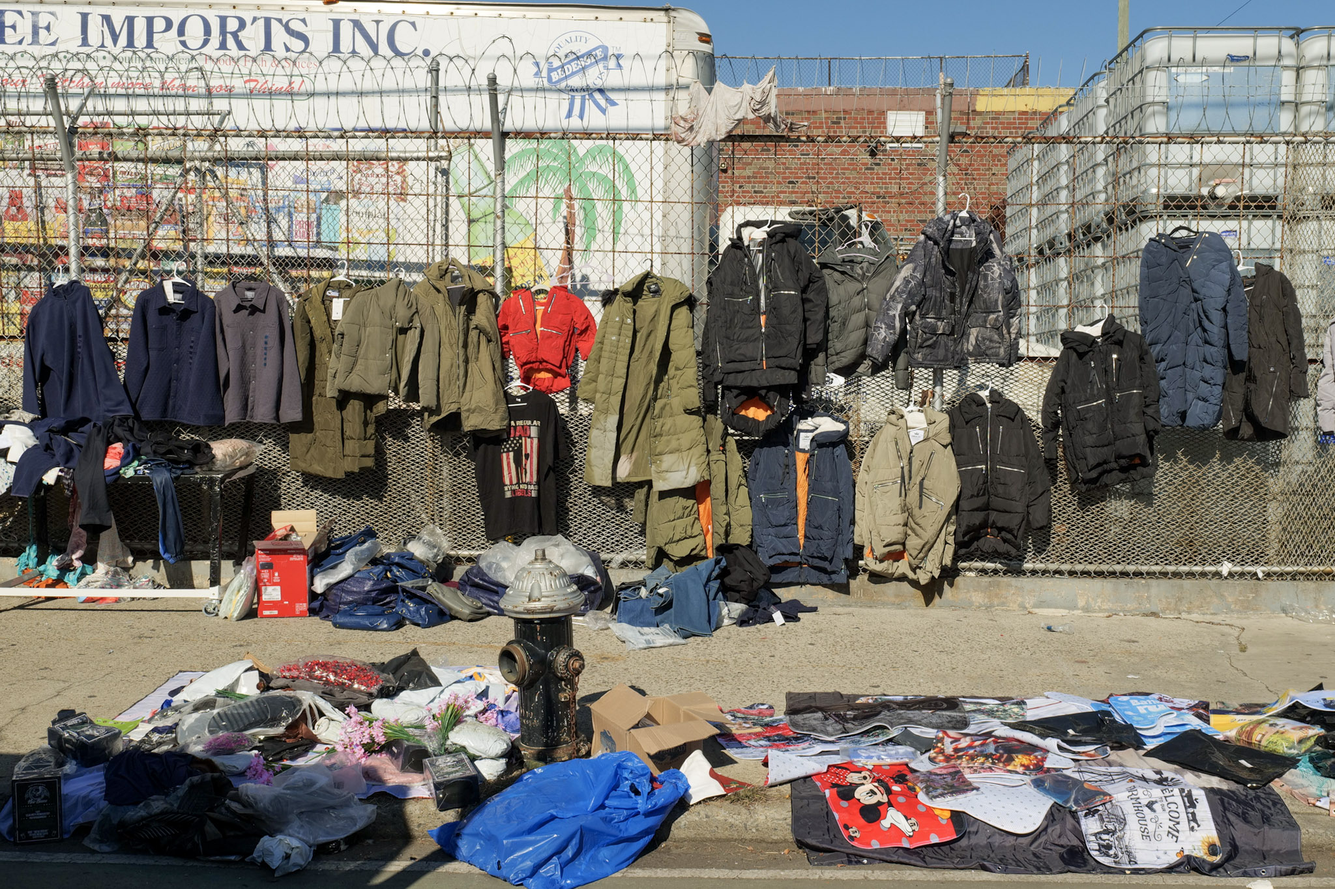
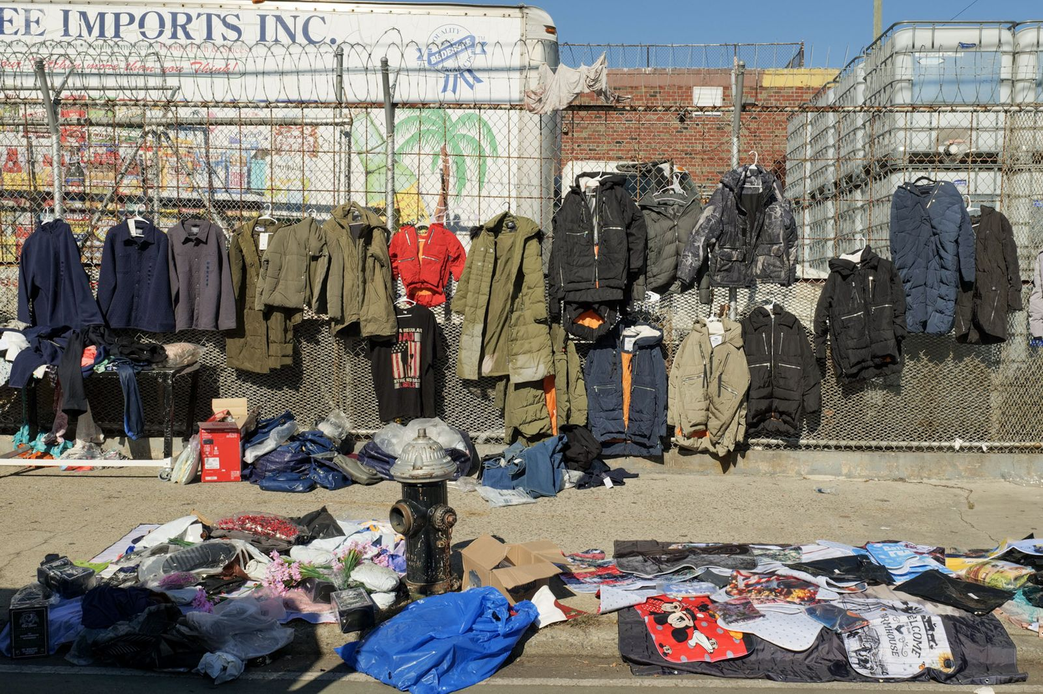
Resize homepage and vendor photos; add January 2027 Regents schedule (#76)

Changed region(s): [[0.375, 0.3096, 0.4062, 0.3405]]

diff --git a/regents/index.html b/regents/index.html
@@ -10,8 +10,8 @@
   <link rel="manifest" href="/site.webmanifest">
   <meta name="theme-color" content="#0F1319">
   <meta name="viewport" content="width=device-width, initial-scale=1.0" />
-  <title>June 2026 Regents Schedule, Rating Days and School Closures | East New York Times</title>
-  <meta name="description" content="Exam dates, school closures, and rating days for District 19 students and families in East New York, Brooklyn." />
+  <title>January 2027 Regents Schedule: Exam Dates for East New York Families | East New York Times</title>
+  <meta name="description" content="January 2027 Regents exams run Jan. 26 to 29. Exam dates, times and planning tips for District 19 students and families in East New York, Brooklyn." />
   <link href="https://api.fontshare.com/v2/css?f[]=clash-display@400,500,600,700&f[]=satoshi@300,400,500,700&display=swap" rel="stylesheet" />
   <style>
     :root{--bg:#0d1117;--surface:#161b22;--surface-2:#1c2128;--border:#2d333b;--divider:#21262d;--text:#e6edf3;--text-muted:#8b949e;--text-faint:#484f58;--accent:#e8952a;--accent-dim:rgba(232,149,42,0.12);--font-display:'Clash Display','Georgia',serif;--font-body:'Satoshi','Inter',sans-serif;--radius:6px;--radius-lg:12px;--max-w:720px;}
@@ -73,12 +73,12 @@
   <meta property="og:type" content="article" />
   <meta property="og:site_name" content="East New York Times" />
   <meta property="og:title" content="June Regents Are Coming — Here&#x27;s What East New York Families Need to Know" />
-  <meta property="og:description" content="Exam dates, school closures, and rating days for District 19 students and families in East New York, Brooklyn." />
+  <meta property="og:description" content="January 2027 Regents exams run Jan. 26 to 29. Exam dates, times and planning tips for District 19 students and families in East New York, Brooklyn." />
   <meta property="og:url" content="https://eastnewyorktimes.com/regents/" />
   <meta property="og:image" content="https://eastnewyorktimes.com/regents-story.jpg" />
   <meta name="twitter:card" content="summary_large_image" />
   <meta name="twitter:title" content="June Regents Are Coming — Here&#x27;s What East New York Families Need to Know" />
-  <meta name="twitter:description" content="Exam dates, school closures, and rating days for District 19 students and families in East New York, Brooklyn." />
+  <meta name="twitter:description" content="January 2027 Regents exams run Jan. 26 to 29. Exam dates, times and planning tips for District 19 students and families in East New York, Brooklyn." />
   <meta name="twitter:image" content="https://eastnewyorktimes.com/regents-story.jpg" />
   <script type="application/ld+json">
 {
@@ -108,12 +108,12 @@
     }
   },
   "isAccessibleForFree": true,
-  "description": "Exam dates, school closures, and rating days for District 19 students and families in East New York, Brooklyn.",
+  "description": "January 2027 Regents exams run Jan. 26 to 29. Exam dates, times and planning tips for District 19 students and families in East New York, Brooklyn.",
   "image": [
     "https://eastnewyorktimes.com/regents-story.jpg"
   ],
   "datePublished": "2026-06-02T09:00:00-04:00",
-  "dateModified": "2026-06-02T09:00:00-04:00"
+  "dateModified": "2026-11-09T09:00:00-05:00"
 }
   </script>
   <!-- Google tag (gtag.js) -->
@@ -159,6 +159,20 @@
     </div>
     <p class="article-caption">P.S. 171 Highland Park Community School, East New York. Photo: Deric Johnson / The East New York Times</p>
     <div class="article-body">
+      <div class="info-box">
+        <h3>Update, Nov. 9, 2026: January 2027 Regents</h3>
+        <p>The state has posted the January 2027 Regents schedule. Exams run Tuesday, Jan. 26 through Friday, Jan. 29, 2027. Morning exams start at 9:15 a.m. and afternoon exams start at 1:15 p.m. Students should confirm their exact report times with their school.</p>
+      </div>
+      <table class="exam-table">
+        <thead><tr><th>Date</th><th>9:15 a.m.</th><th>1:15 p.m.</th></tr></thead>
+        <tbody>
+          <tr><td>Tuesday, Jan. 26</td><td>English Language Arts</td><td>Earth and Space Sciences</td></tr>
+          <tr><td>Wednesday, Jan. 27</td><td>U.S. History and Government</td><td>Chemistry (both versions) and Algebra I</td></tr>
+          <tr><td>Thursday, Jan. 28</td><td>Global History and Geography II</td><td>Physics (both versions) and Geometry</td></tr>
+          <tr><td>Friday, Jan. 29</td><td>Life Science: Biology and Algebra II</td><td>No exams</td></tr>
+        </tbody>
+      </table>
+      <p><em>Source: <a href="https://www.nysed.gov/sites/default/files/programs/state-assessment/regents-exams-schedule-january-2027.pdf" target="_blank" rel="noopener" style="color:var(--accent);">New York State Education Department January 2027 Regents Examination Schedule</a>. The June 2026 guide below is kept for reference.</em></p>
       <p>If you have a student in a District 19 school in East New York, the next four weeks are important. New York State Regents exams run from June 9 through June 26 — and there are several days when school will not be in session that families need to plan around now.</p>
 
       <h2>Exam Schedule</h2>
